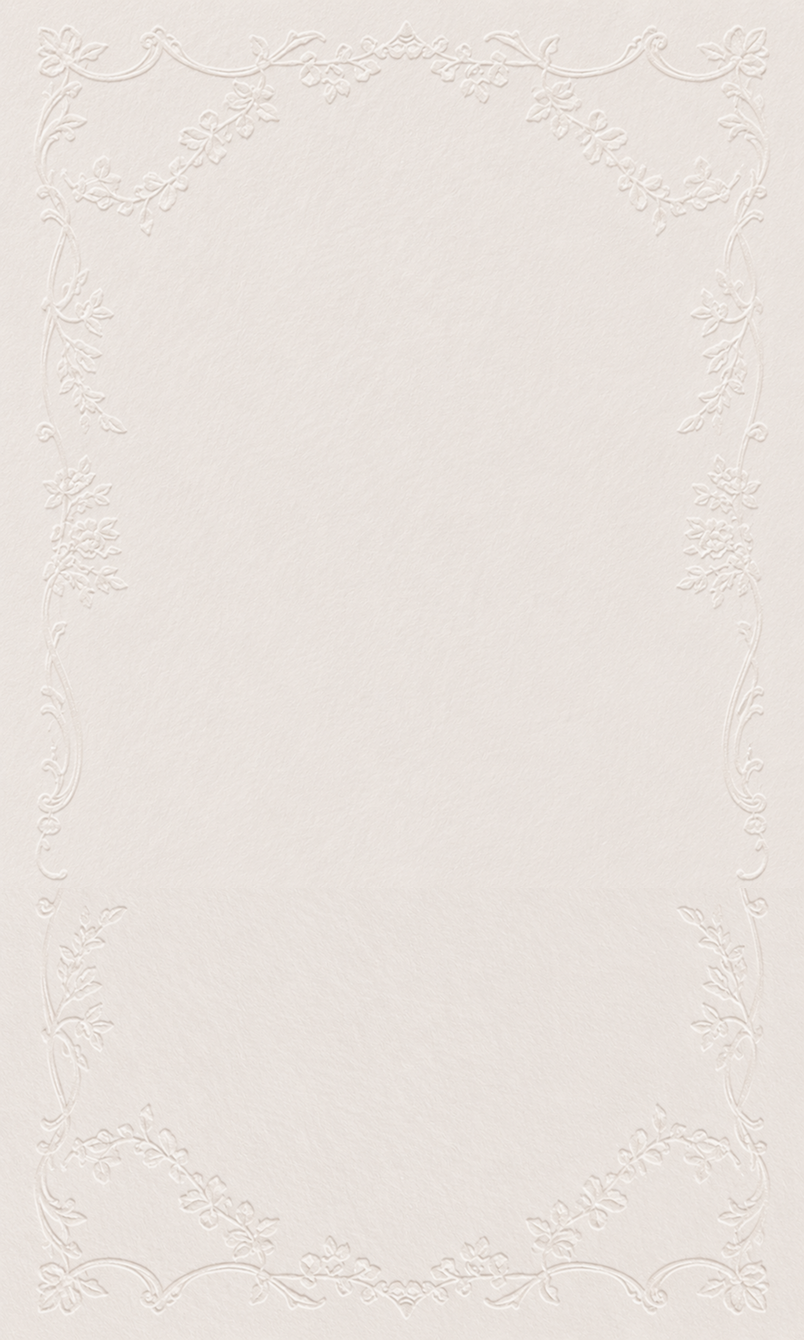
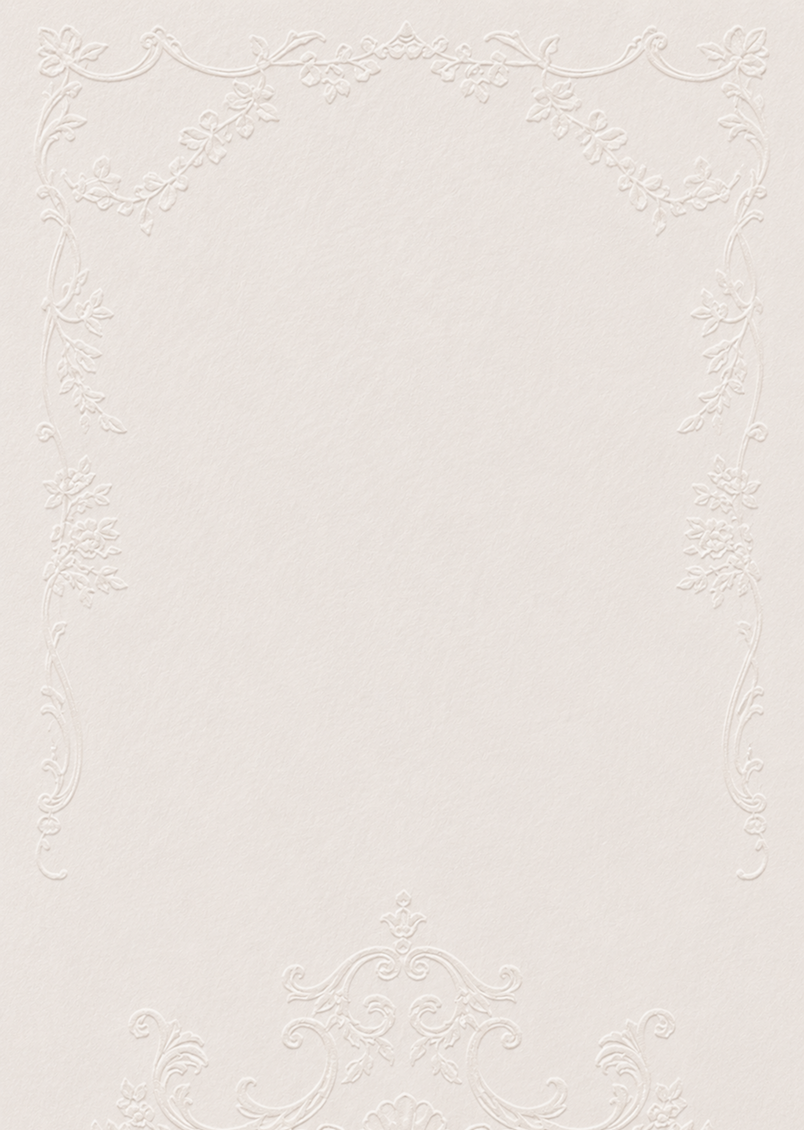
feat: greeting 배경 이미지를 exquisite-manuscript 최신 버전으로 교체
하단 오너먼트가 적용된 greeting-bg 로 교체하고 가로(카드) 모드 전용
greeting-bg-horizontal 을 추가. 표지 확장 오버레이와 greeting 섹션에
가로 모드 분기 및 object-top 크롭 정렬 적용

diff --git a/templates/season1/brown-lace/sections/greeting-section.tsx b/templates/season1/brown-lace/sections/greeting-section.tsx
@@ -129,12 +129,14 @@ export function GreetingSection() {
         minHeight: "100cqh",
       }}
     >
-      {/* 크림 페이퍼(레이스 보더) 배경 — 뒤에 깔리는 레이어 */}
+      {/* 크림 페이퍼(레이스 보더) 배경 — 뒤에 깔리는 레이어.
+          object-top: 표지 확장 오버레이(100cqh 고정)와 상단 크롭을 맞춰
+          표지가 제거되는 순간 배경이 튀지 않게 한다. */}
       <img
         alt=""
         aria-hidden
-        src={ASSET.greetingBg}
-        className="absolute inset-0 size-full object-cover"
+        src={isHorizontal ? ASSET.greetingBgHorizontal : ASSET.greetingBg}
+        className="absolute inset-0 size-full object-cover object-top"
       />
 
       {/* 내용 — flex column 으로 위에서 아래로 자연스럽게 흐른다.

diff --git a/templates/season1/brown-lace/sections/cover-section.tsx b/templates/season1/brown-lace/sections/cover-section.tsx
@@ -346,11 +346,13 @@ function CoverSection() {
             transition: `clip-path ${FILL_MS}ms ease-in-out`,
           }}
         >
+          {/* object-top: greeting 섹션(콘텐츠 높이)과 오버레이(100cqh)의 높이가
+              달라도 상단 크롭이 같아 표지 제거 순간 배경이 튀지 않는다. */}
           <img
             alt=""
             aria-hidden
-            src={ASSET.greetingBg}
-            className="absolute inset-0 size-full object-cover"
+            src={isHorizontal ? ASSET.greetingBgHorizontal : ASSET.greetingBg}
+            className="absolute inset-0 size-full object-cover object-top"
           />
           <div className="absolute inset-x-0 top-[88px] flex flex-col items-center gap-5 px-6 text-center">
             {letterBody}

diff --git a/templates/season1/brown-lace/assets.ts b/templates/season1/brown-lace/assets.ts
@@ -30,6 +30,8 @@ export const ASSET = {
   // greeting (인삿말)
   /** 인삿말 배경 (꽃/질감) */
   greetingBg: `${BASE}/greeting-bg.png`,
+  /** 인삿말 배경 (꽃/질감) — 가로(카드) 모드용 */
+  greetingBgHorizontal: `${BASE}/greeting-bg-horizontal.png`,
   /** 하트 장식 */
   decoHeart: `${BASE}/deco-heart.svg`,
   /** 구분선 */
